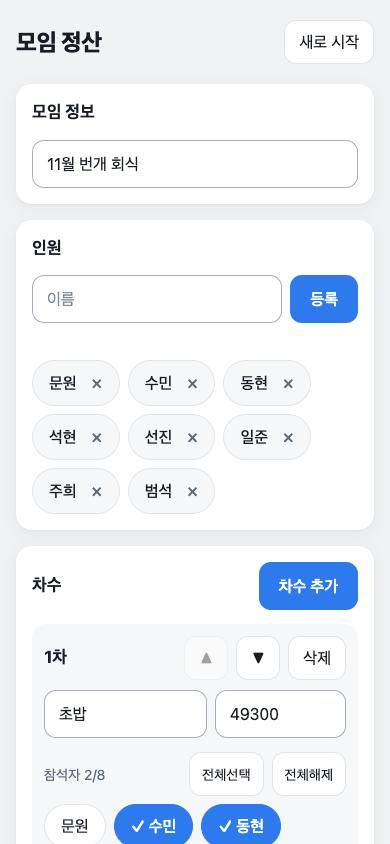
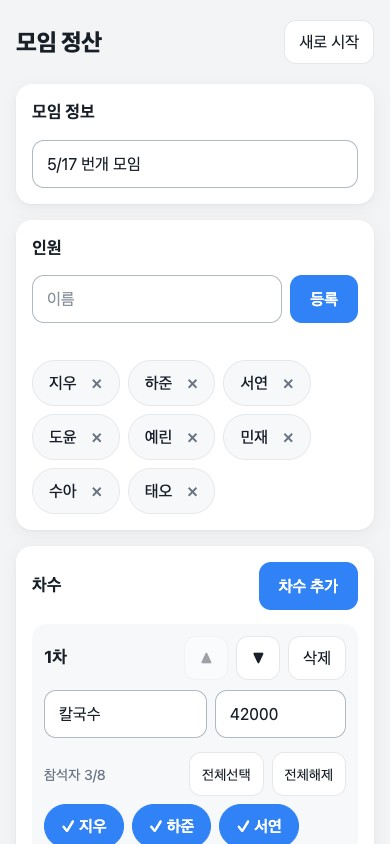
docs: re-render issue-17 images and seed script with fictional data
Refs #31

diff --git a/issue-17/seed-and-measure.js b/issue-17/seed-and-measure.js
@@ -1,27 +1,25 @@
 window.__seed = (kind) => {
-  const M = ['문원','수민','동현','석현','선진','일준','주희','범석'];
-  const all = M;
+  const M = ['지우', '하준', '서연', '도윤', '예린', '민재', '수아', '태오'];
   const mk = (id, name, total, participants, fixed = {}, sent = {}) => ({ id, name, total, participants, fixed, sent });
   let data;
   if (kind === 'one') {
-    data = { title: '', members: ['문원','수민','동현','석현'], rounds: [mk(1, '', 100000, ['문원','수민','동현','석현'])] };
+    data = { title: '', members: M.slice(0, 4), rounds: [mk(1, '칼국수', 100000, M.slice(0, 4))] };
   } else {
     const rounds = [
-      mk(1, '초밥', 49300, ['수민','동현'], { 수민: 28200 }),
-      mk(2, '보드게임', 36000, ['문원','수민','동현','석현','선진','일준']),
-      mk(3, '보드게임음료', 21900, ['동현']),
-      mk(4, '미미철판', 181000, all, { 주희: 20000 }),
-      mk(5, '바차술집', 164700, all, { 주희: 19000 }),
-      mk(6, '편의점', 22700, ['수민','동현','석현','선진','범석']),
+      mk(1, '칼국수', 42000, ['지우', '하준', '서연'], { 하준: 17000 }),
+      mk(2, '볼링', 36000, ['지우', '하준', '서연', '도윤', '예린', '민재']),
+      mk(3, '카페', 9500, ['서연']),
+      mk(4, '고깃집', 175000, M, { 수아: 21000 }),
+      mk(5, '호프', 143200, M, { 태오: 18000 }),
+      mk(6, '편의점', 23500, ['서연', '도윤', '예린', '민재', '태오']),
     ];
     if (kind === 'paid') {
-      rounds[0].sent = { 수민: true, 동현: true };
-      rounds[1].sent = { 문원: true, 수민: true, 동현: true, 석현: true, 선진: true, 일준: true };
-      rounds[2].sent = { 동현: true };
-      rounds[3].sent = { 문원: true, 주희: true };
-      rounds[4].sent = { 주희: true };
+      rounds[0].sent = { 서연: true };
+      rounds[1].sent = { 지우: true };
+      rounds[3].sent = { 수아: true };
+      rounds[4].sent = { 태오: true };
     }
-    data = { title: kind === 'paid' ? '11월 번개 회식' : '', members: M, rounds };
+    data = { title: '5/17 번개 모임', members: M, rounds };
   }
   localStorage.setItem('meet-bill:v1', JSON.stringify(data));
 };
@@ -33,6 +31,7 @@ window.__measure = () => {
   let multi = 0;
   for (const td of cells) {
     const tn = [...td.childNodes].find(n => n.nodeType === 3);
+    if (!tn) continue;
     const r = document.createRange(); r.selectNodeContents(tn);
     if (r.getClientRects().length > 1) multi++;
   }
